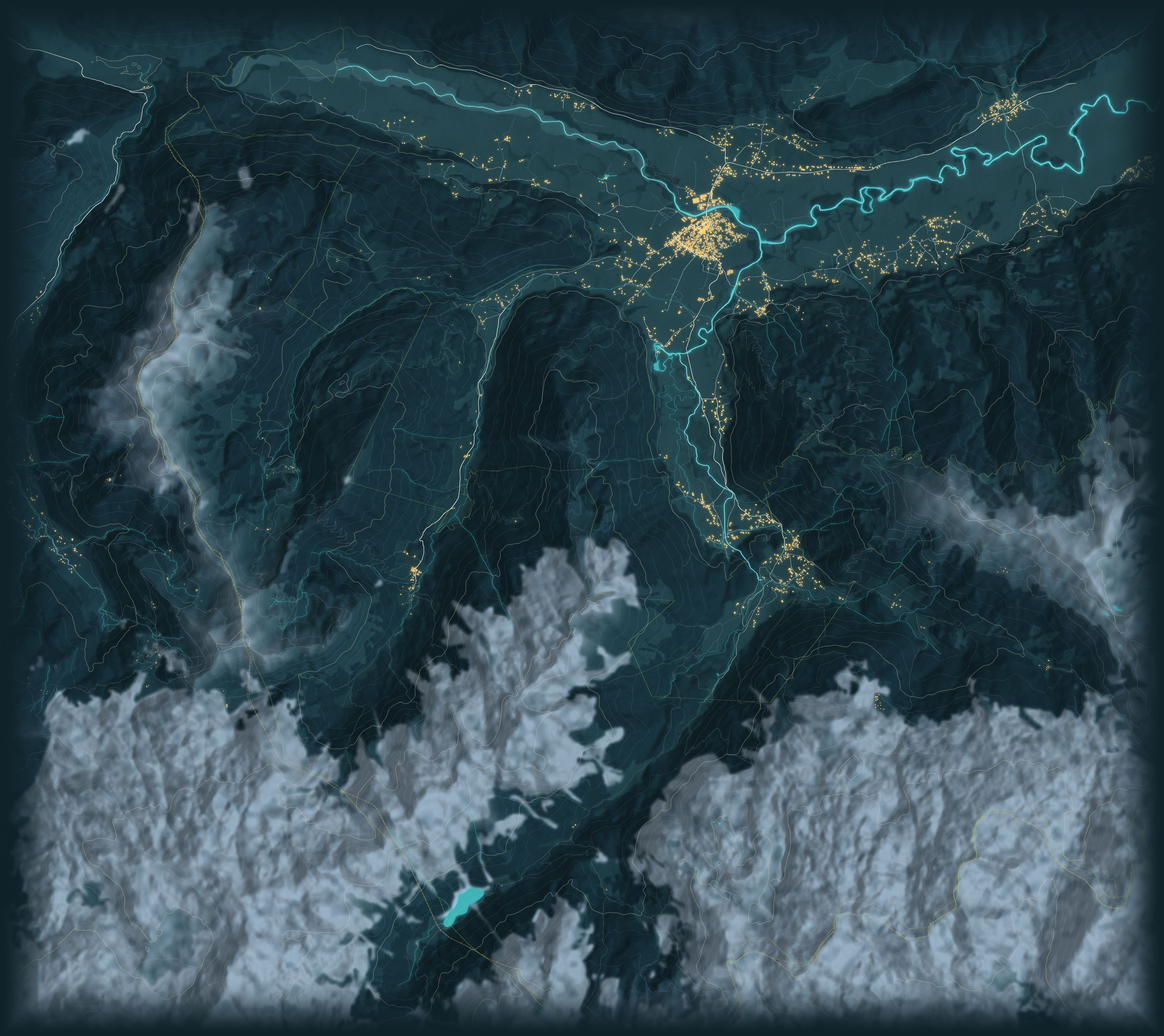
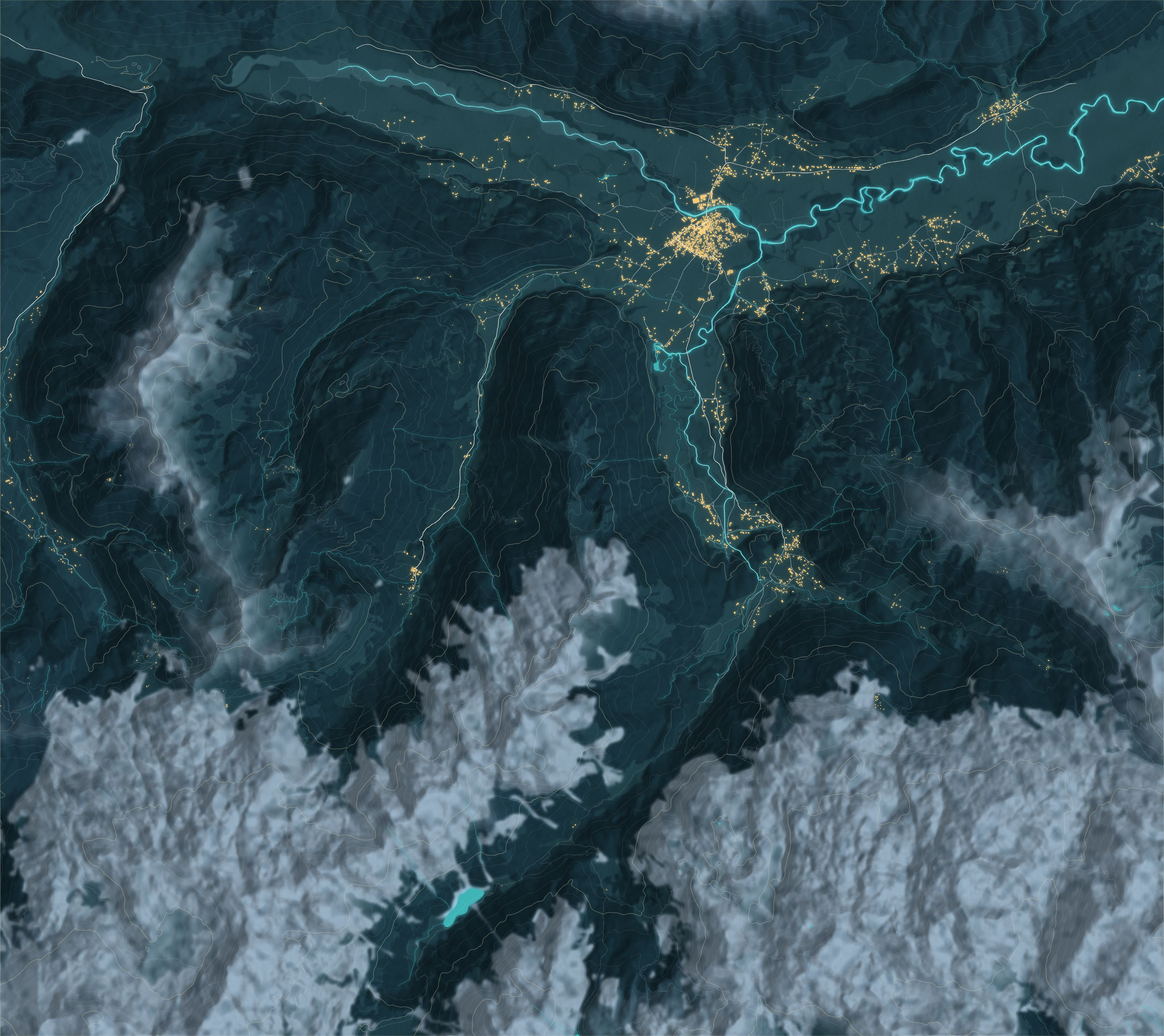
Field map: Montenegro–Albania border with the country names, Prokletije National Park's edge, a slate-and-gold frame round the map
Claude-Session: https://claude.ai/code/session_01Bc8dTu2Rduqva5cFxfx3Wo

diff --git a/field.html b/field.html
@@ -188,6 +188,23 @@ body { background: var(--obsidian); }
 .map { position: fixed; inset: 0; touch-action: none; overflow: hidden; background: var(--map-night); cursor: grab; }
 .map svg { position: absolute; inset: 0; width: 100%; height: 100%; display: block; }
 .map-plates { position: absolute; inset: 0; overflow: hidden; pointer-events: none; }
+/* borders: the state border (rose, dash-dot over a dark casing), the national park's edge (green dashes, a soft band inside) */
+.bd-state-c { fill: none; stroke: rgba(40, 10, 14, 0.55); stroke-width: 6; stroke-linejoin: round; stroke-linecap: round; }
+.bd-state { fill: none; stroke: #e9a39a; stroke-width: 2.4; stroke-dasharray: 12 4 2.5 4; stroke-linejoin: round; }
+.bd-park-band { fill: none; stroke: rgba(170, 214, 64, 0.2); stroke-width: 16; stroke-linejoin: round; }
+.bd-park { fill: none; stroke: #bfe05a; stroke-width: 1.8; stroke-dasharray: 7 4; stroke-linejoin: round; opacity: 0.85; }
+.bd-name { font: 600 12px var(--map-serif); letter-spacing: 0.42em; fill: #f1b9ae; text-anchor: middle; paint-order: stroke; stroke: rgba(8, 20, 24, 0.85); stroke-width: 3px; stroke-linejoin: round; pointer-events: none; }
+.bd-park-name { font: italic 600 13px var(--map-serif); letter-spacing: 0.04em; fill: #cfe979; text-anchor: middle; paint-order: stroke; stroke: rgba(8, 20, 24, 0.85); stroke-width: 3px; stroke-linejoin: round; pointer-events: none; }
+/* the frame where the painted map ends: night outside, a slate band with an inlaid gold line, gold hairlines, a gold diamond at each corner */
+.fr-out { fill: var(--map-night); pointer-events: none; }
+.fr-shade { fill: none; stroke: rgba(4, 10, 12, 0.5); stroke-width: 14; filter: blur(5px); pointer-events: none; }
+.fr-band { fill: none; stroke: #20262a; stroke-width: 15; pointer-events: none; }
+.fr-gold { fill: none; stroke: var(--map-gold); stroke-width: 1.8; pointer-events: none; }
+.fr-hair { fill: none; stroke: rgba(231, 207, 144, 0.55); stroke-width: 1; pointer-events: none; }
+.fr-hair.in { stroke: rgba(231, 207, 144, 0.3); }
+.fr-orn path { fill: var(--map-gold-hi); stroke: #3a2c10; stroke-width: 1; }
+.fr-orn circle { fill: #2a200a; }
+.fr-orn { pointer-events: none; }
 /* quest trails: gold dashes by road, ivory dots on foot */
 .tr-road-c { fill: none; stroke: #241d0e; stroke-width: 7.5; stroke-linecap: round; stroke-linejoin: round; opacity: 0.88; }
 .tr-road { fill: none; stroke: #ecd79c; stroke-width: 4.2; stroke-dasharray: 11 6; stroke-linejoin: round; }
@@ -575,6 +592,11 @@ textarea.export { width: 100%; box-sizing: border-box; min-height: 180px; font: 
 <script type="module">
 /* generated by tools/fieldmap/routes.py: the field map's base pictures, quest trails and labels (world units: Web Mercator px at z17) */
 const FIELDMAP = {"pics":[{"id":"overview","src":"fieldmap/overview.jpg","kind":"overview","box":[18615439.63,12381631.25,18632494.63,12396811.25]},{"id":"gusinje","src":"fieldmap/gusinje.webp","kind":"detail","box":[18624107.86,12384061.65,18627136.61,12387389.15]},{"id":"vusanje","src":"fieldmap/vusanje.webp","kind":"detail","box":[18625179.74,12389350.24,18627509.74,12392258.99]},{"id":"grebaje","src":"fieldmap/grebaje.webp","kind":"detail","box":[18620239.78,12390109.07,18622057.28,12391879.07]}],"trails":[{"id":"town","kind":"foot","pts":[[18625785.6,12384985.5],[18625794.0,12384985.3],[18625856.2,12385157.8],[18625884.8,12385221.0],[18625916.5,12385330.3],[18626007.2,12385278.0],[18626017.1,12385269.8],[18625990.0,12385206.0],[18625982.1,12385178.2],[18625962.0,12385129.5],[18625914.0,12385066.2],[18625866.8,12384984.5],[18625842.8,12384937.0],[18625886.9,12384913.6],[18625880.7,12384910.8],[18625886.9,12384913.6],[18625860.0,12384926.7],[18625801.4,12384815.5],[18625796.0,12384796.3],[18625793.7,12384769.9],[18625797.9,12384680.2],[18625804.2,12384681.8],[18625797.9,12384680.2],[18625795.8,12384693.5],[18625795.2,12384791.0],[18625801.4,12384815.5],[18625823.9,12384859.9],[18625675.8,12384955.6],[18625669.5,12384964.3],[18625655.1,12384960.2],[18625669.5,12384964.3],[18625675.8,12384955.6],[18625640.6,12384911.9],[18625633.9,12384912.2],[18625590.6,12384931.7],[18625494.3,12384999.0],[18625404.3,12385076.4],[18625417.0,12385088.2],[18625429.7,12385107.0],[18625450.0,12385099.4],[18625429.7,12385107.0],[18625417.0,12385088.2],[18625404.3,12385076.4],[18625379.5,12385096.7],[18625340.4,12385135.3],[18625260.7,12385199.0],[18625175.4,12385255.5],[18624936.9,12385397.8],[18624907.0,12385428.0],[18624849.9,12385514.7],[18624837.0,12385529.2],[18624760.9,12385502.3],[18624711.9,12385480.9],[18624689.1,12385476.2],[18624652.4,12385473.6],[18624656.5,12385467.2],[18624673.4,12385453.3],[18624676.4,12385428.4]],"km":2.7},{"id":"T1-V1","kind":"road","pts":[[18625785.6,12384985.5],[18625794.0,12384985.3],[18625884.8,12385221.0],[18625916.5,12385330.3],[18625875.8,12385376.0],[18625973.9,12385461.2],[18625994.0,12385493.3],[18626002.4,12385540.3],[18625989.9,12385603.3],[18625947.9,12385715.6],[18625920.3,12385745.9],[18625855.1,12385789.5],[18625831.9,12385835.7],[18625834.2,12385864.6],[18625858.4,12385938.5],[18625856.7,12385982.5],[18625846.0,12386015.8],[18625829.8,12386033.6],[18625771.3,12386054.2],[18625754.8,12386068.4],[18625659.6,12386252.6],[18625604.0,12386332.7],[18625454.3,12386439.1],[18625343.0,12386498.8],[18625317.6,12386519.0],[18625213.6,12386659.3],[18625166.9,12386710.0],[18625198.4,12386794.9]],"km":2.0,"lab":[18625858.8,12385964.8],"ang":-83.3},{"id":"V1-V2","kind":"road","pts":[[18625198.4,12386794.9],[18625166.9,12386710.0],[18625213.6,12386659.3],[18625317.6,12386519.0],[18625343.0,12386498.8],[18625454.3,12386439.1],[18625604.0,12386332.7],[18625605.4,12386409.1],[18625563.2,12386503.4],[18625495.2,12386751.4],[18625597.1,12387177.2],[18625635.6,12387261.5],[18625638.8,12387318.7],[18625691.1,12387392.4],[18625736.5,12387515.6],[18625739.8,12387531.9],[18625728.1,12387605.7],[18625825.6,12387845.6],[18625848.4,12388011.0],[18625894.2,12388078.3],[18625919.2,12388133.0],[18625896.9,12388333.9],[18625900.3,12388356.1],[18625915.2,12388381.8],[18625971.5,12388423.6],[18625985.8,12388443.3],[18626006.1,12388484.0],[18626015.5,12388548.3],[18626064.6,12388653.0],[18626077.5,12388754.8],[18626117.5,12388799.4],[18626165.0,12388829.7],[18626199.7,12388871.4],[18626212.4,12388914.3],[18626246.9,12388985.9],[18626260.0,12389041.9],[18626293.1,12389089.3],[18626356.7,12389130.3],[18626395.6,12389173.4],[18626428.1,12389186.3],[18626513.0,12389198.0],[18626621.7,12389176.5],[18626654.1,12389178.1],[18626732.9,12389259.9],[18626776.3,12389254.4],[18626826.4,12389288.9],[18626877.4,12389304.4],[18626889.2,12389315.6],[18626902.8,12389453.2],[18626932.2,12389535.1],[18626935.6,12389666.9],[18626901.9,12389739.2],[18626718.6,12390047.5],[18626717.2,12390067.4],[18626745.6,12390109.2],[18626746.2,12390136.7],[18626732.9,12390150.8],[18626670.1,12390142.7],[18626630.9,12390161.9],[18626587.2,12390121.7]],"km":4.8,"lab":[18625903.7,12388271.3],"ang":-81.6},{"id":"V2-V3","kind":"road","pts":[[18626587.2,12390121.7],[18626630.9,12390161.9],[18626619.6,12390185.3],[18626633.8,12390216.2],[18626612.9,12390358.5],[18626584.4,12390409.4],[18626559.6,12390476.4],[18626494.7,12390564.5],[18626409.1,12390742.4],[18626380.7,12390828.6],[18626358.3,12390866.3],[18626332.2,12390891.0],[18626275.6,12390917.7],[18626265.6,12390930.6],[18626254.2,12391014.6],[18626228.8,12391062.1],[18626221.7,12391092.0],[18626227.4,12391230.6],[18626175.9,12391294.6],[18626154.6,12391348.4],[18626122.1,12391398.1],[18626115.6,12391447.6],[18626029.3,12391549.4],[18625988.3,12391572.6],[18625953.4,12391512.7]],"km":1.6,"lab":[18626324.9,12390895.4],"ang":-20.3},{"id":"T1-G1","kind":"road","pts":[[18625785.6,12384985.5],[18625794.0,12384985.3],[18625884.8,12385221.0],[18625916.5,12385330.3],[18625875.8,12385376.0],[18625881.2,12385384.4],[18625844.5,12385398.3],[18625767.1,12385399.0],[18625637.2,12385362.1],[18625480.4,12385244.9],[18625345.6,12385130.8],[18625268.1,12385193.8],[18625175.4,12385255.5],[18624934.1,12385400.0],[18624907.0,12385428.0],[18624837.0,12385529.2],[18624711.9,12385480.9],[18624627.2,12385468.3],[18624464.3,12385405.9],[18624348.9,12385398.2],[18624306.0,12385407.9],[18624190.8,12385457.4],[18624103.1,12385471.3],[18623867.0,12385589.1],[18623771.4,12385621.4],[18623694.8,12385629.4],[18623615.9,12385657.8],[18623450.0,12385641.8],[18623365.0,12385660.5],[18623232.3,12385725.6],[18623113.9,12385842.3],[18623070.7,12385865.3],[18623024.5,12385944.7],[18622966.9,12385996.6],[18622927.5,12386068.4],[18622846.7,12386146.6],[18622768.7,12386249.8],[18622749.5,12386299.1],[18622738.8,12386411.0],[18622711.0,12386565.8],[18622685.4,12386616.2],[18622632.1,12386759.8],[18622606.0,12386854.1],[18622582.2,12386996.4],[18622555.7,12387081.8],[18622446.9,12387241.8],[18622446.7,12387292.2],[18622463.4,12387424.8],[18622448.6,12387529.9],[18622460.0,12387684.3],[18622422.3,12387800.8],[18622432.1,12387871.7],[18622383.7,12387989.5],[18622387.9,12388054.1],[18622377.3,12388155.9],[18622292.9,12388276.6],[18622204.0,12388443.9],[18622184.6,12388498.7],[18622173.2,12388792.3],[18622152.7,12388930.0],[18622072.8,12389052.8],[18622040.9,12389088.0],[18621942.2,12389161.7],[18621857.9,12389258.6],[18621686.9,12389373.1],[18621641.7,12389432.7],[18621633.0,12389470.7],[18621591.9,12389531.7],[18621596.2,12389554.1],[18621626.9,12389555.0],[18621634.3,12389562.7],[18621637.0,12389609.6],[18621649.6,12389646.2],[18621650.7,12389718.5],[18621616.8,12389842.9],[18621562.0,12389924.2],[18621534.5,12389946.1],[18621537.3,12390001.4],[18621525.5,12390056.7],[18621537.7,12390140.4],[18621504.0,12390248.6],[18621491.9,12390265.9],[18621445.3,12390296.3],[18621435.0,12390315.8],[18621428.7,12390393.8],[18621439.4,12390485.3],[18621431.8,12390541.2],[18621398.2,12390588.6],[18621369.5,12390648.7],[18621340.9,12390685.2],[18621320.6,12390772.8],[18621282.5,12390806.7],[18621246.4,12390859.0],[18621216.3,12390887.4],[18621189.9,12390944.3],[18621143.9,12391006.9]],"km":8.3,"lab":[18622614.2,12386837.7],"ang":-65.4}],"peaks":[{"t":"Lagojvet","e":2540,"w":[18619173.6,12394765.1]},{"t":"Zla Kolata / Kollate e Keqe","e":2535,"w":[18631660.5,12394921.6]},{"t":"Dobra Kolata / Kollate e Mires","e":2525,"w":[18632016.5,12394419.6]},{"t":"Maja e Rosit / Rosni vrh","e":2522,"w":[18627416.9,12395611.4]},{"t":"Maja Shkurt","e":2499,"w":[18619033.8,12395522.3]},{"t":"Veliki vrh","e":2490,"w":[18621499.8,12393470.6]},{"t":"Sjeverni vrh","e":2460,"w":[18621743.5,12393188.7]},{"t":"L3","e":2455,"w":[18619585.4,12394886.4]},{"t":"Xhevahirit","e":2445,"w":[18620054.5,12394310.0]},{"t":"Maja Podi e Rosit","e":2444,"w":[18628101.8,12395067.8]},{"t":"Južni Vrh","e":2441,"w":[18621033.1,12393418.2]},{"t":"Vukoces","e":2431,"w":[18620002.9,12394929.9]},{"t":"Preht","e":2430,"w":[18619510.8,12394714.3]},{"t":"Maja Lugut Ujit","e":2428,"w":[18631755.5,12396129.6]},{"t":"Maja e Nagvacit","e":2412,"w":[18618160.5,12394222.5]},{"t":"Forca (Fortit)","e":2403,"w":[18620833.3,12394131.0]},{"t":"L6","e":2400,"w":[18619121.9,12395255.0]},{"t":"Maja Koprišit","e":2363,"w":[18618733.2,12395898.0]},{"t":"Maja Gosdines","e":2269,"w":[18618404.1,12393439.9]},{"t":"Maja Brinja e Lisit","e":2263,"w":[18617538.2,12394275.3]},{"t":"Karanfil Ljuljaševića","e":2224,"w":[18622914.9,12392424.0]},{"t":"Vojušit(Edhave)","e":2210,"w":[18619565.2,12392858.7]},{"t":"Veliki Trojan","e":2190,"w":[18618035.7,12386525.2]},{"t":"Očnjak","e":2185,"w":[18622089.1,12392026.8]},{"t":"Komljen","e":2151,"w":[18621780.0,12393785.6]},{"t":"Mali Karanfili","e":2119,"w":[18623419.2,12391444.7]},{"t":"Bora","e":2106,"w":[18631318.6,12389860.7]},{"t":"Talijanka/Maja e Vajushës","e":2057,"w":[18619000.4,12390987.7]},{"t":"Pukli krš","e":2052,"w":[18630043.6,12389310.8]},{"t":"Ćemena","e":2036,"w":[18629477.5,12388955.6]},{"t":"Brian i bunsit","e":2033,"w":[18625400.0,12394231.6]},{"t":"Popadija","e":2030,"w":[18618963.2,12390458.2]},{"t":"Podgojs","e":2021,"w":[18624075.6,12390491.9]},{"t":"Kulj Brešnjik","e":1995,"w":[18627621.1,12392295.6]},{"t":"Gvozdeni vrh","e":1988,"w":[18621348.1,12392360.5]},{"t":"Čokišta","e":1956,"w":[18622988.0,12395549.6]},{"t":"Karaula","e":1915,"w":[18620515.4,12388659.1]},{"t":"Volušnica","e":1879,"w":[18620444.8,12390813.9]},{"t":"Kukića bor","e":1812,"w":[18630931.4,12388819.5]},{"t":"Belić","e":1804,"w":[18628404.3,12392570.7]},{"t":"Vezirova brada","e":1781,"w":[18623780.2,12387963.9]},{"t":"Bor","e":1723,"w":[18628275.2,12388412.6]},{"t":"Ploče","e":1678,"w":[18622929.4,12390117.6]},{"t":"Maja Taljanit","e":1585,"w":[18616486.0,12384130.1]},{"t":"Čunova brada","e":1543,"w":[18624294.2,12388794.6]},{"t":"Somina","e":1422,"w":[18625565.3,12382898.5]},{"t":"Pajišta","e":1386,"w":[18625290.9,12390285.9]},{"t":"Fite","e":1342,"w":[18624266.0,12393953.6]},{"t":"Mala Jerina","e":1275,"w":[18627699.3,12383358.5]},{"t":"Mala glava","e":1233,"w":[18622974.2,12385245.5]},{"t":"Glavica","e":1068,"w":[18621407.1,12384028.6]}],"places":[{"t":"Gusinje","k":"town","w":[18625809.2,12384951.4]},{"t":"Perperan","k":"hamlet","w":[18620450.1,12395989.9]},{"t":"Katun Roman","k":"locality","w":[18627282.1,12392616.6]},{"t":"Stanovi","k":"hamlet","w":[18628329.1,12391923.6]},{"t":"Katun Zastan","k":"hamlet","w":[18624307.7,12394673.9]},{"t":"Lepushë","k":"village","w":[18616210.0,12389460.8]},{"t":"Desni Grnčar","k":"village","w":[18621270.8,12383374.4]},{"t":"Škala","k":"hamlet","w":[18621459.3,12389812.6]},{"t":"Katun Popadija","k":"hamlet","w":[18619596.3,12388491.6]},{"t":"Godilja","k":"hamlet","w":[18618406.7,12383538.4]},{"t":"Katun Balijica","k":"locality","w":[18619381.7,12385700.4]},{"t":"Budaç","k":"hamlet","w":[18616397.6,12385970.9]},{"t":"Žuta prla","k":"locality","w":[18617867.8,12388055.1]},{"t":"Livada velika","k":"locality","w":[18618753.9,12387867.2]},{"t":"Krlje","k":"locality","w":[18620761.1,12383182.0]},{"t":"Popadija","k":"locality","w":[18618985.2,12390014.9]},{"t":"Pila e Budaćit","k":"locality","w":[18616496.0,12387046.5]},{"t":"Koljenoviće","k":"village","w":[18626587.9,12386059.9]},{"t":"Ćosovići","k":"hamlet","w":[18625975.9,12387653.8]},{"t":"Vusanje","k":"village","w":[18626994.6,12389650.1]},{"t":"Kruševo","k":"village","w":[18628843.9,12385317.1]},{"t":"Dolja","k":"village","w":[18623541.2,12385678.6]},{"t":"Dosuđe","k":"village","w":[18626685.2,12383672.6]},{"t":"Derviševići","k":"hamlet","w":[18624073.9,12383189.8]},{"t":"Vrela","k":"hamlet","w":[18626005.6,12383596.9]},{"t":"Gerani","k":"hamlet","w":[18625395.1,12388748.2]},{"t":"Lazi","k":"hamlet","w":[18621918.7,12384082.1]},{"t":"Bucelj","k":"hamlet","w":[18622693.2,12383876.6]},{"t":"Dragija","k":"hamlet","w":[18625198.9,12386234.7]},{"t":"Katun Vezirova brada","k":"locality","w":[18623967.6,12389092.2]},{"t":"Gropa Vezirova","k":"locality","w":[18622974.7,12389264.1]},{"t":"Budžaci","k":"hamlet","w":[18622472.2,12386463.6]},{"t":"Ahmedmujovići","k":"hamlet","w":[18622265.2,12386130.6]},{"t":"Ciri Kače","k":"hamlet","w":[18628038.6,12384084.6]},{"t":"Bojovići","k":"hamlet","w":[18623047.3,12382978.6]},{"t":"Luke","k":"hamlet","w":[18622432.1,12387340.6]},{"t":"Dolja","k":"hamlet","w":[18622234.9,12388273.0]},{"t":"Zarunica","k":"hamlet","w":[18627502.2,12390292.8]},{"t":"Ali pašini izvori","k":"hamlet","w":[18625154.6,12386697.7]},{"t":"Katuni","k":"hamlet","w":[18628586.1,12388261.6]},{"t":"Huljeva livada","k":"hamlet","w":[18627312.1,12387327.7]},{"t":"Laništa","k":"hamlet","w":[18622139.5,12386998.5]},{"t":"Jagnjičar","k":"locality","w":[18622888.5,12391074.3]},{"t":"Ploče","k":"locality","w":[18623494.1,12390160.0]},{"t":"Višnjevo","k":"village","w":[18630804.8,12384786.9]},{"t":"Martinoviće","k":"village","w":[18630188.4,12383159.6]},{"t":"Koljenovića katun","k":"hamlet","w":[18630417.5,12390173.7]},{"t":"Kukića katun","k":"hamlet","w":[18631626.4,12388148.6]},{"t":"Gropa Memina","k":"hamlet","w":[18632078.5,12387185.7]}]};
+
+/* generated by tools/fieldmap/borders.py from OpenStreetMap: the Montenegro–Albania border (relation 53296) and the edge of
+   Prokletije National Park (relation 13996294); park = its own edge where it leaves the border, parkArea = the whole ring
+   (for the soft band inside it); [lat, lon] */
+const BORDERS = {"state":[[[42.506612,19.909302],[42.506865,19.908014],[42.506963,19.906949],[42.507385,19.906413],[42.507199,19.906291],[42.506538,19.906509],[42.504897,19.905262],[42.503672,19.904904],[42.502952,19.904905],[42.502089,19.904665],[42.500982,19.903847],[42.500229,19.903526],[42.499123,19.904602],[42.496364,19.905165],[42.495676,19.905439],[42.495479,19.905354],[42.495332,19.905091],[42.494482,19.902517],[42.49411,19.901992],[42.493715,19.901769],[42.492576,19.901877],[42.491315,19.902677],[42.490623,19.902902],[42.490387,19.902853],[42.489582,19.900953],[42.488687,19.899861],[42.487598,19.899738],[42.485337,19.898945],[42.484928,19.898704],[42.484739,19.89814],[42.484756,19.897147],[42.484921,19.89603],[42.485171,19.895332],[42.48591,19.894503],[42.486459,19.894387],[42.486876,19.89415],[42.487284,19.893444],[42.487984,19.892705],[42.489111,19.889973],[42.490026,19.888432],[42.491582,19.887088],[42.493081,19.886246],[42.493795,19.885648],[42.494608,19.883904],[42.494926,19.882958],[42.495215,19.881641],[42.495803,19.88016],[42.495896,19.878952],[42.495834,19.877978],[42.495348,19.876445],[42.494644,19.875553],[42.493794,19.875192],[42.491934,19.875297],[42.491151,19.875541],[42.490561,19.875481],[42.4902,19.87476],[42.489977,19.873515],[42.489413,19.872899],[42.488786,19.872664],[42.487618,19.872767],[42.487364,19.872625],[42.486742,19.871935],[42.485984,19.87203],[42.485231,19.872337],[42.484712,19.87215],[42.482939,19.868247],[42.482583,19.867947],[42.482277,19.867868],[42.481665,19.867937],[42.481554,19.867787],[42.481162,19.864566],[42.48245,19.861998],[42.483186,19.860877],[42.483762,19.858727],[42.484183,19.858281],[42.483946,19.856814],[42.484186,19.855534],[42.484189,19.854484],[42.483901,19.853511],[42.483159,19.853097],[42.482378,19.853144],[42.482106,19.852994],[42.481642,19.852324],[42.480263,19.8508],[42.47948,19.850511],[42.479149,19.850498],[42.478122,19.849545],[42.477288,19.848686],[42.477011,19.847908],[42.476798,19.846892],[42.476948,19.84659],[42.47749,19.846258],[42.477796,19.845512],[42.479095,19.843227],[42.479693,19.841076],[42.479734,19.840556],[42.479516,19.839212],[42.478769,19.83802],[42.478641,19.837451],[42.478701,19.836286],[42.477535,19.836652],[42.474053,19.838309],[42.473645,19.838411],[42.472864,19.837819],[42.470821,19.835872],[42.468901,19.834339],[42.467942,19.833396],[42.467253,19.833081],[42.465832,19.831421]],[[42.465832,19.831421],[42.466319,19.829933],[42.467011,19.826465],[42.467875,19.823084],[42.470208,19.817545],[42.470569,19.816226],[42.470689,19.815158],[42.470922,19.814328],[42.472253,19.811328],[42.472445,19.810765],[42.47271,19.809317],[42.473391,19.80821],[42.47351,19.807108],[42.474055,19.806271],[42.475299,19.805152],[42.476008,19.803932],[42.476952,19.80337],[42.477688,19.803218],[42.477903,19.802897],[42.478027,19.801858],[42.47884,19.799029],[42.480306,19.795606],[42.481455,19.792516],[42.482224,19.791267],[42.483156,19.790432],[42.4857,19.788948],[42.4902,19.786046],[42.491227,19.785312],[42.493551,19.783143],[42.496334,19.781214],[42.496746,19.780716],[42.498427,19.775454],[42.499023,19.774043],[42.499575,19.773173],[42.500054,19.772004],[42.500445,19.770244],[42.501629,19.76647],[42.502345,19.765646],[42.503415,19.765092],[42.507664,19.762044],[42.508587,19.761228],[42.509202,19.760931],[42.509824,19.76086],[42.511882,19.761153],[42.513705,19.761577],[42.5145,19.761237],[42.515695,19.760293],[42.517527,19.760367],[42.5208,19.759548],[42.522102,19.758983],[42.523407,19.758214],[42.523942,19.757673],[42.525068,19.756934],[42.525622,19.756795],[42.525975,19.756472],[42.526539,19.75509],[42.527973,19.753419],[42.528652,19.752923],[42.52964,19.752575],[42.531226,19.752501],[42.531766,19.752732],[42.532494,19.752623],[42.535345,19.750332],[42.536116,19.749196],[42.536537,19.74796],[42.536727,19.747771],[42.538463,19.747279],[42.53999,19.746123],[42.541759,19.745697],[42.542599,19.744523],[42.544181,19.743909],[42.545139,19.74339],[42.547666,19.744304],[42.548507,19.745536],[42.549416,19.748466],[42.550671,19.749606],[42.551087,19.749728],[42.551688,19.749672],[42.553653,19.74916],[42.554186,19.749378],[42.554567,19.749341],[42.555149,19.74923],[42.555595,19.748935],[42.556089,19.748932],[42.558683,19.750059],[42.560388,19.751347],[42.561781,19.752621],[42.56198,19.75303],[42.562625,19.753445],[42.563516,19.753644],[42.564267,19.753986],[42.56478,19.753867],[42.565804,19.75318],[42.566071,19.753113],[42.566338,19.753261],[42.567505,19.753428],[42.569145,19.753018],[42.570487,19.75131],[42.571194,19.750052],[42.571856,19.749292],[42.573175,19.748393],[42.573396,19.747969],[42.57521,19.748142],[42.577282,19.752063],[42.5775,19.753241],[42.57811,19.753158],[42.579301,19.751573],[42.579886,19.751352],[42.581267,19.751433],[42.581447,19.751535]]],"park":[[[42.575094,19.755907],[42.574886,19.75669],[42.574749,19.75687],[42.574373,19.759344],[42.574041,19.760008],[42.574296,19.761543],[42.574464,19.761826],[42.57437,19.763502],[42.574517,19.763785],[42.57445,19.764994],[42.574315,19.765334],[42.574509,19.770668],[42.57428,19.77111],[42.573678,19.771863],[42.573208,19.774751],[42.573229,19.777398],[42.572981,19.778013],[42.572907,19.778491],[42.56871,19.774932],[42.564915,19.772754],[42.559549,19.771227],[42.555088,19.766675],[42.551506,19.773847],[42.5517,19.774396],[42.552248,19.77488],[42.552676,19.77591],[42.552995,19.77613],[42.553789,19.77739],[42.554134,19.778318],[42.554443,19.778844],[42.554497,19.779312],[42.554837,19.780302],[42.55558,19.781828],[42.555931,19.782344],[42.55605,19.783026],[42.556471,19.783884],[42.556629,19.786184],[42.556402,19.78679],[42.556079,19.787328],[42.55604,19.787571],[42.556244,19.787935],[42.556228,19.788262],[42.555589,19.789162],[42.554865,19.789759],[42.534323,19.776351],[42.530868,19.792557],[42.528572,19.790631],[42.528361,19.790684],[42.528376,19.791079],[42.529211,19.792185],[42.529048,19.792336],[42.52902,19.79255],[42.528807,19.792554],[42.528613,19.793158],[42.52867,19.793396],[42.528896,19.793446],[42.52922,19.793081],[42.529282,19.793146],[42.529455,19.794322],[42.529414,19.794697],[42.530106,19.794949],[42.530105,19.795521],[42.530469,19.795943],[42.531177,19.796084],[42.531695,19.796456],[42.531987,19.796516],[42.532009,19.796241],[42.532734,19.795338],[42.532668,19.795023],[42.532719,19.79494],[42.532997,19.79511],[42.533524,19.7951],[42.533524,19.795424],[42.534197,19.795447],[42.534467,19.795062],[42.534553,19.795291],[42.534434,19.795632],[42.534716,19.795928],[42.534903,19.795992],[42.535084,19.795829],[42.535375,19.795852],[42.53541,19.795997],[42.535122,19.79638],[42.535202,19.796714],[42.535486,19.797079],[42.535573,19.798208],[42.535482,19.798983],[42.535494,19.800577],[42.535725,19.801486],[42.536103,19.80571],[42.53548,19.809759],[42.535716,19.815247],[42.534569,19.814111],[42.533492,19.81419],[42.531652,19.815625],[42.530921,19.815873],[42.528063,19.814759],[42.526729,19.815018],[42.524329,19.816522],[42.523854,19.816473],[42.521385,19.815507],[42.520698,19.822803],[42.520444,19.828102],[42.515646,19.820716],[42.509349,19.824458],[42.508652,19.84309],[42.511793,19.846359],[42.5131,19.847459],[42.516405,19.850999],[42.519523,19.853801],[42.52038,19.854895],[42.522171,19.855903],[42.522649,19.856444],[42.522664,19.856089],[42.522473,19.855909],[42.522342,19.855381],[42.522401,19.854399],[42.522663,19.852914],[42.524125,19.850994],[42.52474,19.849786],[42.524954,19.849084],[42.525388,19.848381],[42.526269,19.84822],[42.526503,19.847434],[42.526973,19.846973],[42.528146,19.846419],[42.528478,19.846101],[42.528246,19.845321],[42.528567,19.845002],[42.52921,19.844646],[42.529592,19.843371],[42.529851,19.842987],[42.529993,19.843065],[42.530084,19.843295],[42.530883,19.84306],[42.532188,19.842376],[42.532323,19.842474],[42.532755,19.842392],[42.532696,19.842831],[42.533075,19.84278],[42.533956,19.842031],[42.534201,19.842176],[42.534113,19.842681],[42.533894,19.843176],[42.534069,19.843204],[42.534337,19.842767],[42.534486,19.842737],[42.534499,19.843363],[42.534808,19.844144],[42.535953,19.843975],[42.536069,19.844277],[42.535953,19.844655],[42.535963,19.845],[42.536175,19.845138],[42.536304,19.844871],[42.537179,19.846101],[42.537276,19.84735],[42.537441,19.847353],[42.537669,19.847106],[42.537864,19.847165],[42.538425,19.84747],[42.538875,19.848057],[42.539112,19.848818],[42.539606,19.849412],[42.539754,19.84975],[42.539689,19.850596],[42.539631,19.850752],[42.539395,19.850567],[42.538733,19.850887],[42.538725,19.851485],[42.538478,19.852408],[42.538408,19.853027],[42.53814,19.853817],[42.537453,19.855118],[42.537371,19.855707],[42.538046,19.857311],[42.538112,19.857751],[42.537953,19.858131],[42.537987,19.858456],[42.53785,19.858637],[42.537923,19.85894],[42.537492,19.859346],[42.537541,19.859587],[42.537262,19.859634],[42.537274,19.860032],[42.537431,19.860176],[42.537491,19.860773],[42.537634,19.861106],[42.537531,19.861339],[42.537658,19.861462],[42.537671,19.861758],[42.537949,19.861831],[42.537953,19.862252],[42.538215,19.862694],[42.538253,19.863154],[42.537947,19.863388],[42.538052,19.863682],[42.537985,19.863815],[42.537475,19.863824],[42.537284,19.863518],[42.53686,19.863863],[42.537364,19.864474],[42.537315,19.864897],[42.537406,19.865271],[42.537313,19.865708],[42.537613,19.865933],[42.537358,19.866287],[42.537352,19.86665],[42.537213,19.866857],[42.536623,19.866813],[42.535927,19.867607],[42.535848,19.868385],[42.534953,19.870022],[42.53507,19.870509],[42.535456,19.870384],[42.535602,19.870027],[42.536124,19.871081],[42.536785,19.871052],[42.536976,19.871454],[42.537264,19.871533],[42.537359,19.871809],[42.537312,19.872114],[42.536614,19.872398],[42.536331,19.872826],[42.536275,19.873554],[42.535743,19.874122],[42.535563,19.87487],[42.534905,19.875355],[42.534898,19.875964],[42.535163,19.876213],[42.535131,19.876772],[42.534749,19.877303],[42.535256,19.878022],[42.535036,19.878533],[42.536157,19.879563],[42.536492,19.881074],[42.536341,19.882024],[42.535478,19.882443],[42.536627,19.88317],[42.536595,19.883747],[42.536093,19.885047],[42.536027,19.885965],[42.536222,19.886674],[42.536139,19.887168],[42.535565,19.887501],[42.535276,19.887472],[42.535195,19.888203],[42.536045,19.889448],[42.536126,19.888715],[42.536352,19.888677],[42.536633,19.889182],[42.536935,19.889177],[42.537271,19.888865],[42.5372,19.889325],[42.536766,19.889945],[42.536976,19.890808],[42.536972,19.891709],[42.537377,19.892093],[42.537331,19.892502],[42.537632,19.892095],[42.53839,19.891456],[42.539095,19.891661],[42.538815,19.891829],[42.539285,19.892582],[42.539629,19.892902],[42.539633,19.89331],[42.540223,19.894034],[42.540341,19.893787],[42.540466,19.894165],[42.540847,19.894143],[42.541826,19.893581],[42.54235,19.893654],[42.542727,19.893157],[42.543629,19.892842],[42.543873,19.893137],[42.543317,19.893644],[42.54286,19.893652],[42.542423,19.893976],[42.542814,19.89471],[42.543532,19.894665],[42.543508,19.894857],[42.543153,19.895571],[42.542715,19.896014],[42.542114,19.896034],[42.542075,19.896406],[42.542641,19.896695],[42.543301,19.896581],[42.543709,19.896661],[42.543743,19.89695],[42.543316,19.896925],[42.543279,19.89714],[42.543652,19.897304],[42.544491,19.897429],[42.546241,19.898284],[42.547039,19.899839],[42.546852,19.900841],[42.546427,19.901539],[42.54656,19.903148],[42.546851,19.903603],[42.547617,19.90382],[42.54749,19.904495],[42.547938,19.905009],[42.547924,19.905742],[42.548399,19.906458],[42.548391,19.90698],[42.549281,19.907666],[42.549744,19.908497],[42.549924,19.909187]]],"parkArea":[[[42.507625,19.90944],[42.508136,19.90686],[42.508517,19.906046],[42.507386,19.906415],[42.506345,19.905128],[42.50409,19.904732],[42.501893,19.903553],[42.499055,19.902646],[42.493945,19.899517],[42.492465,19.899369],[42.488615,19.900219],[42.487694,19.900172],[42.486552,19.899605],[42.486244,19.898841],[42.485996,19.897445],[42.486087,19.896449],[42.486447,19.895629],[42.487475,19.894797],[42.488375,19.89451],[42.489336,19.893634],[42.489686,19.891775],[42.490503,19.889861],[42.491458,19.888398],[42.492818,19.887334],[42.49415,19.886858],[42.494751,19.886758],[42.495378,19.885933],[42.49628,19.882435],[42.496067,19.881173],[42.496167,19.877736],[42.496092,19.876878],[42.495749,19.875935],[42.494272,19.875373],[42.493471,19.875433],[42.49188,19.876818],[42.491631,19.875285],[42.491313,19.87431],[42.491039,19.873636],[42.490668,19.873281],[42.489669,19.87357],[42.488899,19.873539],[42.48829,19.872781],[42.487749,19.872658],[42.486677,19.872678],[42.485799,19.87229],[42.485297,19.871145],[42.484864,19.870518],[42.484167,19.869031],[42.483716,19.86875],[42.482756,19.868681],[42.482648,19.868568],[42.482427,19.865601],[42.48244,19.864793],[42.48324,19.863654],[42.485204,19.858667],[42.485468,19.857336],[42.485539,19.855835],[42.485445,19.855029],[42.485095,19.854141],[42.482919,19.853803],[42.482571,19.853088],[42.481987,19.852263],[42.480695,19.851075],[42.478932,19.849694],[42.478588,19.849325],[42.478218,19.848611],[42.478059,19.847633],[42.478097,19.847258],[42.479347,19.845686],[42.481218,19.843028],[42.481358,19.842073],[42.481409,19.840746],[42.480946,19.839254],[42.480449,19.838658],[42.480274,19.8382],[42.480174,19.836788],[42.475377,19.83895],[42.468151,19.832702],[42.466966,19.831484],[42.467456,19.829398],[42.468218,19.82676],[42.468744,19.823924],[42.469193,19.822572],[42.47211,19.815827],[42.473395,19.814275],[42.473562,19.813897],[42.473721,19.812798],[42.474066,19.808187],[42.474209,19.807608],[42.474626,19.806648],[42.475945,19.804345],[42.479458,19.797558],[42.480694,19.795559],[42.482651,19.793041],[42.484514,19.791765],[42.486529,19.790659],[42.487163,19.790128],[42.499043,19.774962],[42.501184,19.769756],[42.501959,19.767204],[42.502399,19.766807],[42.502746,19.766683],[42.504985,19.766081],[42.509017,19.764671],[42.513188,19.762081],[42.51692,19.760476],[42.517475,19.760112],[42.518396,19.760212],[42.520666,19.760167],[42.521625,19.75924],[42.522206,19.758959],[42.523556,19.758563],[42.524455,19.758087],[42.525043,19.757285],[42.525883,19.755705],[42.526866,19.754676],[42.52788,19.754152],[42.528983,19.753167],[42.529305,19.753093],[42.529993,19.75239],[42.53154,19.752342],[42.532228,19.752716],[42.532859,19.753594],[42.53307,19.753624],[42.534561,19.75248],[42.535049,19.751886],[42.535412,19.751251],[42.535922,19.749861],[42.537317,19.747948],[42.53944,19.747567],[42.539971,19.74722],[42.540872,19.746154],[42.541377,19.745957],[42.541847,19.74601],[42.542267,19.745885],[42.542512,19.745519],[42.542897,19.744513],[42.543299,19.744168],[42.544451,19.743721],[42.545048,19.743609],[42.545926,19.743804],[42.546589,19.743728],[42.547589,19.744432],[42.547986,19.744524],[42.548302,19.744754],[42.548619,19.74506],[42.549172,19.74591],[42.549565,19.747516],[42.549791,19.748036],[42.550836,19.749126],[42.551494,19.749537],[42.551947,19.750036],[42.552979,19.749071],[42.55319,19.748979],[42.554844,19.749033],[42.555819,19.748827],[42.556648,19.748911],[42.557472,19.749256],[42.559021,19.750136],[42.559954,19.750342],[42.560982,19.75096],[42.562587,19.752787],[42.564525,19.754188],[42.564969,19.754378],[42.566019,19.754385],[42.569295,19.752223],[42.571005,19.750966],[42.572009,19.750153],[42.57294,19.74922],[42.573962,19.748502],[42.574334,19.748375],[42.574601,19.748441],[42.575841,19.74974],[42.576698,19.75112],[42.576847,19.751766],[42.576879,19.753016],[42.576972,19.753399],[42.577261,19.753827],[42.577737,19.754043],[42.575094,19.755907],[42.574886,19.75669],[42.574749,19.75687],[42.574373,19.759344],[42.574041,19.760008],[42.574296,19.761543],[42.574464,19.761826],[42.57437,19.763502],[42.574517,19.763785],[42.57445,19.764994],[42.574315,19.765334],[42.574509,19.770668],[42.57428,19.77111],[42.573678,19.771863],[42.573208,19.774751],[42.573229,19.777398],[42.572981,19.778013],[42.572907,19.778491],[42.56871,19.774932],[42.564915,19.772754],[42.559549,19.771227],[42.555088,19.766675],[42.551506,19.773847],[42.5517,19.774396],[42.552248,19.77488],[42.552676,19.77591],[42.552995,19.77613],[42.553789,19.77739],[42.554134,19.778318],[42.554443,19.778844],[42.554497,19.779312],[42.554837,19.780302],[42.55558,19.781828],[42.555931,19.782344],[42.55605,19.783026],[42.556471,19.783884],[42.556629,19.786184],[42.556402,19.78679],[42.556079,19.787328],[42.55604,19.787571],[42.556244,19.787935],[42.556228,19.788262],[42.555589,19.789162],[42.554865,19.789759],[42.534323,19.776351],[42.530868,19.792557],[42.528572,19.790631],[42.528361,19.790684],[42.528376,19.791079],[42.529211,19.792185],[42.529048,19.792336],[42.52902,19.79255],[42.528807,19.792554],[42.528613,19.793158],[42.52867,19.793396],[42.528896,19.793446],[42.52922,19.793081],[42.529282,19.793146],[42.529455,19.794322],[42.529414,19.794697],[42.530106,19.794949],[42.530105,19.795521],[42.530469,19.795943],[42.531177,19.796084],[42.531695,19.796456],[42.531987,19.796516],[42.532009,19.796241],[42.532734,19.795338],[42.532668,19.795023],[42.532719,19.79494],[42.532997,19.79511],[42.533524,19.7951],[42.533524,19.795424],[42.534197,19.795447],[42.534467,19.795062],[42.534553,19.795291],[42.534434,19.795632],[42.534716,19.795928],[42.534903,19.795992],[42.535084,19.795829],[42.535375,19.795852],[42.53541,19.795997],[42.535122,19.79638],[42.535202,19.796714],[42.535486,19.797079],[42.535573,19.798208],[42.535482,19.798983],[42.535494,19.800577],[42.535725,19.801486],[42.536103,19.80571],[42.53548,19.809759],[42.535716,19.815247],[42.534569,19.814111],[42.533492,19.81419],[42.531652,19.815625],[42.530921,19.815873],[42.528063,19.814759],[42.526729,19.815018],[42.524329,19.816522],[42.523854,19.816473],[42.521385,19.815507],[42.520698,19.822803],[42.520444,19.828102],[42.515646,19.820716],[42.509349,19.824458],[42.508652,19.84309],[42.511793,19.846359],[42.5131,19.847459],[42.516405,19.850999],[42.519523,19.853801],[42.52038,19.854895],[42.522171,19.855903],[42.522649,19.856444],[42.522664,19.856089],[42.522473,19.855909],[42.522342,19.855381],[42.522401,19.854399],[42.522663,19.852914],[42.524125,19.850994],[42.52474,19.849786],[42.524954,19.849084],[42.525388,19.848381],[42.526269,19.84822],[42.526503,19.847434],[42.526973,19.846973],[42.528146,19.846419],[42.528478,19.846101],[42.528246,19.845321],[42.528567,19.845002],[42.52921,19.844646],[42.529592,19.843371],[42.529851,19.842987],[42.529993,19.843065],[42.530084,19.843295],[42.530883,19.84306],[42.532188,19.842376],[42.532323,19.842474],[42.532755,19.842392],[42.532696,19.842831],[42.533075,19.84278],[42.533956,19.842031],[42.534201,19.842176],[42.534113,19.842681],[42.533894,19.843176],[42.534069,19.843204],[42.534337,19.842767],[42.534486,19.842737],[42.534499,19.843363],[42.534808,19.844144],[42.535953,19.843975],[42.536069,19.844277],[42.535953,19.844655],[42.535963,19.845],[42.536175,19.845138],[42.536304,19.844871],[42.537179,19.846101],[42.537276,19.84735],[42.537441,19.847353],[42.537669,19.847106],[42.537864,19.847165],[42.538425,19.84747],[42.538875,19.848057],[42.539112,19.848818],[42.539606,19.849412],[42.539754,19.84975],[42.539689,19.850596],[42.539631,19.850752],[42.539395,19.850567],[42.538733,19.850887],[42.538725,19.851485],[42.538478,19.852408],[42.538408,19.853027],[42.53814,19.853817],[42.537453,19.855118],[42.537371,19.855707],[42.538046,19.857311],[42.538112,19.857751],[42.537953,19.858131],[42.537987,19.858456],[42.53785,19.858637],[42.537923,19.85894],[42.537492,19.859346],[42.537541,19.859587],[42.537262,19.859634],[42.537274,19.860032],[42.537431,19.860176],[42.537491,19.860773],[42.537634,19.861106],[42.537531,19.861339],[42.537658,19.861462],[42.537671,19.861758],[42.537949,19.861831],[42.537953,19.862252],[42.538215,19.862694],[42.538253,19.863154],[42.537947,19.863388],[42.538052,19.863682],[42.537985,19.863815],[42.537475,19.863824],[42.537284,19.863518],[42.53686,19.863863],[42.537364,19.864474],[42.537315,19.864897],[42.537406,19.865271],[42.537313,19.865708],[42.537613,19.865933],[42.537358,19.866287],[42.537352,19.86665],[42.537213,19.866857],[42.536623,19.866813],[42.535927,19.867607],[42.535848,19.868385],[42.534953,19.870022],[42.53507,19.870509],[42.535456,19.870384],[42.535602,19.870027],[42.536124,19.871081],[42.536785,19.871052],[42.536976,19.871454],[42.537264,19.871533],[42.537359,19.871809],[42.537312,19.872114],[42.536614,19.872398],[42.536331,19.872826],[42.536275,19.873554],[42.535743,19.874122],[42.535563,19.87487],[42.534905,19.875355],[42.534898,19.875964],[42.535163,19.876213],[42.535131,19.876772],[42.534749,19.877303],[42.535256,19.878022],[42.535036,19.878533],[42.536157,19.879563],[42.536492,19.881074],[42.536341,19.882024],[42.535478,19.882443],[42.536627,19.88317],[42.536595,19.883747],[42.536093,19.885047],[42.536027,19.885965],[42.536222,19.886674],[42.536139,19.887168],[42.535565,19.887501],[42.535276,19.887472],[42.535195,19.888203],[42.536045,19.889448],[42.536126,19.888715],[42.536352,19.888677],[42.536633,19.889182],[42.536935,19.889177],[42.537271,19.888865],[42.5372,19.889325],[42.536766,19.889945],[42.536976,19.890808],[42.536972,19.891709],[42.537377,19.892093],[42.537331,19.892502],[42.537632,19.892095],[42.53839,19.891456],[42.539095,19.891661],[42.538815,19.891829],[42.539285,19.892582],[42.539629,19.892902],[42.539633,19.89331],[42.540223,19.894034],[42.540341,19.893787],[42.540466,19.894165],[42.540847,19.894143],[42.541826,19.893581],[42.54235,19.893654],[42.542727,19.893157],[42.543629,19.892842],[42.543873,19.893137],[42.543317,19.893644],[42.54286,19.893652],[42.542423,19.893976],[42.542814,19.89471],[42.543532,19.894665],[42.543508,19.894857],[42.543153,19.895571],[42.542715,19.896014],[42.542114,19.896034],[42.542075,19.896406],[42.542641,19.896695],[42.543301,19.896581],[42.543709,19.896661],[42.543743,19.89695],[42.543316,19.896925],[42.543279,19.89714],[42.543652,19.897304],[42.544491,19.897429],[42.546241,19.898284],[42.547039,19.899839],[42.546852,19.900841],[42.546427,19.901539],[42.54656,19.903148],[42.546851,19.903603],[42.547617,19.90382],[42.54749,19.904495],[42.547938,19.905009],[42.547924,19.905742],[42.548399,19.906458],[42.548391,19.90698],[42.549281,19.907666],[42.549744,19.908497],[42.549924,19.909187]]]};
 
 const DEG = Math.PI / 180;
 const DEBUG = new URLSearchParams(location.search).has('debug');
@@ -2103,6 +2125,50 @@ function plateSub(f, st) {
   if (fixFresh() && f.zone) return `${fmtDist(distM([loc.fix.lat, loc.fix.lon], [f.zone.lat, f.zone.lon]))} away`;
   return f.zone ? `Zone ${Math.round(f.zone.r)} m · stay ${f.zone.dwell || 20} s` : '';
 }
+/* borders (16 Nov 2026, the user: "Add borders to this map"): the Montenegro–Albania border with the two names beside it, the edge of
+   Prokletije National Park with a soft green band inside it, and a slate frame with an inlaid gold line where the painted map ends */
+const BD = {
+  state: BORDERS.state.map((l) => l.map(([a, b]) => W(a, b))),
+  park: BORDERS.park.map((l) => l.map(([a, b]) => W(a, b))),
+  parkArea: BORDERS.parkArea.map((l) => l.map(([a, b]) => W(a, b))),
+};
+const MAP_BOX = FIELDMAP.pics.find((p) => p.kind === 'overview').box;
+const GUS_W = W(42.5634, 19.8312), PARK_IN_W = W(42.517, 19.785);   // a point in Montenegro (Gusinje) and one inside the park (Grebaje)
+// a name set along a line: at the line's point nearest to `near`, turned with the line (kept upright), on the side of `side`
+// (or the other side), `off` px from it
+function lineLabel(lines, near, side, other, off) {
+  let best = null;
+  for (const l of lines) for (let i = 0; i < l.length - 1; i++) {
+    const [ax, ay] = l[i], [bx, by] = l[i + 1], dx = bx - ax, dy = by - ay, L2 = dx * dx + dy * dy || 1;
+    const t = Math.max(0, Math.min(1, ((near[0] - ax) * dx + (near[1] - ay) * dy) / L2)), px = ax + t * dx, py = ay + t * dy;
+    const d = (px - near[0]) ** 2 + (py - near[1]) ** 2;
+    if (!best || d < best.d) best = { d, p: [px, py], a: l[Math.max(0, i - 3)], b: l[Math.min(l.length - 1, i + 4)] };
+  }
+  if (!best) return null;
+  const [x, y] = toScreen(best.p), [ax, ay] = toScreen(best.a), [bx, by] = toScreen(best.b);
+  let ux = bx - ax, uy = by - ay; const L = Math.hypot(ux, uy) || 1; ux /= L; uy /= L;
+  let nx = -uy, ny = ux;
+  const [sx, sy] = toScreen(side);
+  if ((sx - x) * nx + (sy - y) * ny < 0) { nx = -nx; ny = -ny; }
+  if (other) { nx = -nx; ny = -ny; }
+  let ang = Math.atan2(uy, ux) * 180 / Math.PI; if (ang > 90) ang -= 180; if (ang < -90) ang += 180;
+  return { x: x + nx * off, y: y + ny * off + 4, ang };
+}
+function frameOf() {   // the frame round the painted map, in screen px; null when the map's edge is far off screen
+  const [x0, y0] = toScreen([MAP_BOX[0], MAP_BOX[1]]), [x1, y1] = toScreen([MAP_BOX[2], MAP_BOX[3]]);
+  if (x0 > -30 && x0 < mapW + 30 || x1 > -30 && x1 < mapW + 30 || y0 > -30 && y0 < mapH + 30 || y1 > -30 && y1 < mapH + 30) {
+    const f = (v) => v.toFixed(1), B = 4000;
+    const rect = (a, b, c, d) => `M${f(a)} ${f(b)}H${f(c)}V${f(d)}H${f(a)}Z`;
+    const orn = (x, y) => `<g class="fr-orn" transform="translate(${f(x)} ${f(y)})"><path d="M0 -9 L4.6 0 L0 9 L-4.6 0 Z"/><circle r="1.6"/></g>`;
+    return `<path class="fr-out" fill-rule="evenodd" d="${rect(-B, -B, mapW + B, mapH + B)}${rect(x0, y0, x1, y1)}"/>`
+      + `<path class="fr-shade" d="${rect(x0 + 3, y0 + 3, x1 - 3, y1 - 3)}"/>`
+      + `<path class="fr-band" d="${rect(x0, y0, x1, y1)}"/>`
+      + `<path class="fr-gold" d="${rect(x0, y0, x1, y1)}"/>`
+      + `<path class="fr-hair" d="${rect(x0 - 7.5, y0 - 7.5, x1 + 7.5, y1 + 7.5)}"/><path class="fr-hair in" d="${rect(x0 + 7.5, y0 + 7.5, x1 - 7.5, y1 - 7.5)}"/>`
+      + orn(x0, y0) + orn(x1, y0) + orn(x0, y1) + orn(x1, y1);
+  }
+  return '';
+}
 const perf = { draws: 0, writes: 0, ms: 0 };
 let drawQueued = false, lastOver = '', lastPlates = '';
 function requestDraw() { if (drawQueued) return; drawQueued = true; requestAnimationFrame(() => { drawQueued = false; drawMap(); }); }
@@ -2128,6 +2194,14 @@ function drawMap() {
     taken.push([px, y - 38, px + w, y + 2]);
     return [px, y - 38];
   };
+  // borders under the trails: the park's soft inner band and its edge, then the state border
+  const borders = [];
+  if (s < 0.9) {
+    const area = BD.parkArea.map((l) => pathOf(l) + 'Z').join('');
+    borders.push(`<clipPath id="park-clip"><path d="${area}"/></clipPath><path class="bd-park-band" d="${area}" clip-path="url(#park-clip)"/>`);
+    for (const l of BD.park) borders.push(`<path class="bd-park" d="${pathOf(l)}"/>`);
+    for (const l of BD.state) { const d = pathOf(l); borders.push(`<path class="bd-state-c" d="${d}"/><path class="bd-state" d="${d}"/>`); }
+  }
   // quest trails: gold dashes on the roads, gold dots on foot through the town
   for (const t of TRAILS) {
     if (t.kind === 'foot' && merged) continue;
@@ -2175,6 +2249,29 @@ function drawMap() {
     const [x, y] = toScreen(t.lab);
     if (onScreen([x, y]) && fits(x - 24, y - 22, x + 24, y + 4)) names.push(`<text class="tr-km" transform="translate(${x.toFixed(1)} ${y.toFixed(1)}) rotate(${t.ang})" y="-9">${t.km} km</text>`);
   }
+  // names stay inside the frame's inner gold hairline
+  const [fx0, fy0] = toScreen([MAP_BOX[0], MAP_BOX[1]]), [fx1, fy1] = toScreen([MAP_BOX[2], MAP_BOX[3]]);
+  const inFrame = (x0, y0, x1, y1) => x0 > fx0 + 10 && y0 > fy0 + 10 && x1 < fx1 - 10 && y1 < fy1 - 10;
+  // the two countries beside the border, and the park's name inside its edge
+  const turnedBox = (at, half) => {   // the box round a name turned by at.ang degrees
+    const c = Math.abs(Math.cos(at.ang * DEG)), sn = Math.abs(Math.sin(at.ang * DEG)), hx = c * half + sn * 6.5, hy = sn * half + c * 6.5;
+    return [at.x - hx, at.y - 4 - hy, at.x + hx, at.y - 4 + hy];
+  };
+  const free = (r) => !taken.some((q) => r[0] < q[2] && r[2] > q[0] && r[1] < q[3] && r[3] > q[1]);
+  const fitsTurned = (at, half) => fits(...turnedBox(at, half));
+  if (s < 0.5) {
+    for (const near of [W(42.548, 19.758), W(42.476, 19.862)]) {   // a pair on each side of the border: they may touch each other, not the rest
+      const pair = [['MONTENEGRO', false], ['ALBANIA', true]].map(([txt, other]) => {
+        const at = lineLabel(BD.state, near, GUS_W, other, 19);
+        return at && onScreen([at.x, at.y], 20) ? { txt, at, box: turnedBox(at, txt.length * 4.6) } : null;
+      }).filter((l) => l && inFrame(...l.box) && free(l.box));
+      for (const l of pair) { taken.push(l.box); names.push(`<text class="bd-name" transform="translate(${l.at.x.toFixed(1)} ${l.at.y.toFixed(1)}) rotate(${l.at.ang.toFixed(1)})">${l.txt}</text>`); }
+    }
+    if (s > 0.03) {
+      const at = lineLabel(BD.park, W(42.5285, 19.875), PARK_IN_W, false, 13);
+      if (at && onScreen([at.x, at.y], 20) && inFrame(...turnedBox(at, 72)) && fitsTurned(at, 72)) names.push(`<text class="bd-park-name" transform="translate(${at.x.toFixed(1)} ${at.y.toFixed(1)}) rotate(${at.ang.toFixed(1)})">Prokletije National Park</text>`);
+    }
+  }
   // names: the town and the valleys in gold capitals, villages and hamlets in italics, peaks with their heights
   const RANK = { town: 0, valley: 1, range: 1, village: 2, hamlet: 3, locality: 4 };
   const named = MAP_NAMES.filter((p) => p.k in RANK).sort((a, b) => RANK[a.k] - RANK[b.k]);
@@ -2185,16 +2282,19 @@ function drawMap() {
     if (!onScreen([x, y], 120)) continue;
     const big = k === 'town' ? 26 : k === 'valley' || k === 'range' ? 19 : k === 'village' ? 15.5 : 13;
     const tw = p.t.length * big * (k === 'town' || k === 'valley' || k === 'range' ? 0.95 : 0.5);
-    if (!p.rot && !fits(x - tw / 2, y - big, x + tw / 2, y + 4)) continue;
+    if (!p.rot && !(inFrame(x - tw / 2, y - big, x + tw / 2, y + 4) && fits(x - tw / 2, y - big, x + tw / 2, y + 4))) continue;
     names.push(`<text class="pl pl-${k}" x="${x.toFixed(1)}" y="${y.toFixed(1)}"${p.rot ? ` transform="rotate(${p.rot} ${x.toFixed(1)} ${y.toFixed(1)})"` : ''}>${esc(p.t)}</text>`);
   }
   for (const p of PEAKS) {
-    const [x, y] = toScreen(p.w); if (!onScreen([x, y])) continue;
-    const name = p.t.split(' / ')[0].split('/')[0].trim();
-    if (!fits(x - 6, y - 12, x + 9 + name.length * 6.2, y + 13)) continue;
-    names.push(`<g class="pk" transform="translate(${x.toFixed(1)} ${y.toFixed(1)})"><path d="M0 -5 L4.6 3 L-4.6 3 Z"/><text x="7" y="0">${esc(name)}</text><text class="ele" x="7" y="11">${p.e}</text></g>`);
+    const [x, y] = toScreen(p.w); if (!onScreen([x, y]) || !inFrame(x - 5, y - 5, x + 5, y + 4)) continue;
+    const name = p.t.split(' / ')[0].split('/')[0].trim(), tw = 9 + name.length * 6.2;
+    // the name to the right of the triangle, or to the left when the frame or another name is in the way
+    const right = inFrame(x - 6, y - 12, x + tw, y + 13) && fits(x - 6, y - 12, x + tw, y + 13);
+    if (!right && !(inFrame(x - tw, y - 12, x + 6, y + 13) && fits(x - tw, y - 12, x + 6, y + 13))) continue;
+    const tx = right ? 'x="7"' : 'x="-7" text-anchor="end"';
+    names.push(`<g class="pk" transform="translate(${x.toFixed(1)} ${y.toFixed(1)})"><path d="M0 -5 L4.6 3 L-4.6 3 Z"/><text ${tx} y="0">${esc(name)}</text><text class="ele" ${tx} y="11">${p.e}</text></g>`);
   }
-  const html = trails.join('') + names.join('') + zones.join('') + pins.reverse().join('');
+  const html = borders.join('') + trails.join('') + names.join('') + frameOf() + zones.join('') + pins.reverse().join('');
   if (html !== lastOver) {   // new pins pick up their animations where the page's clock is (see gemMark)
     const over = $('map-over');
     over.style.setProperty('--ph', `${(-performance.now() / 1000).toFixed(3)}s`);
